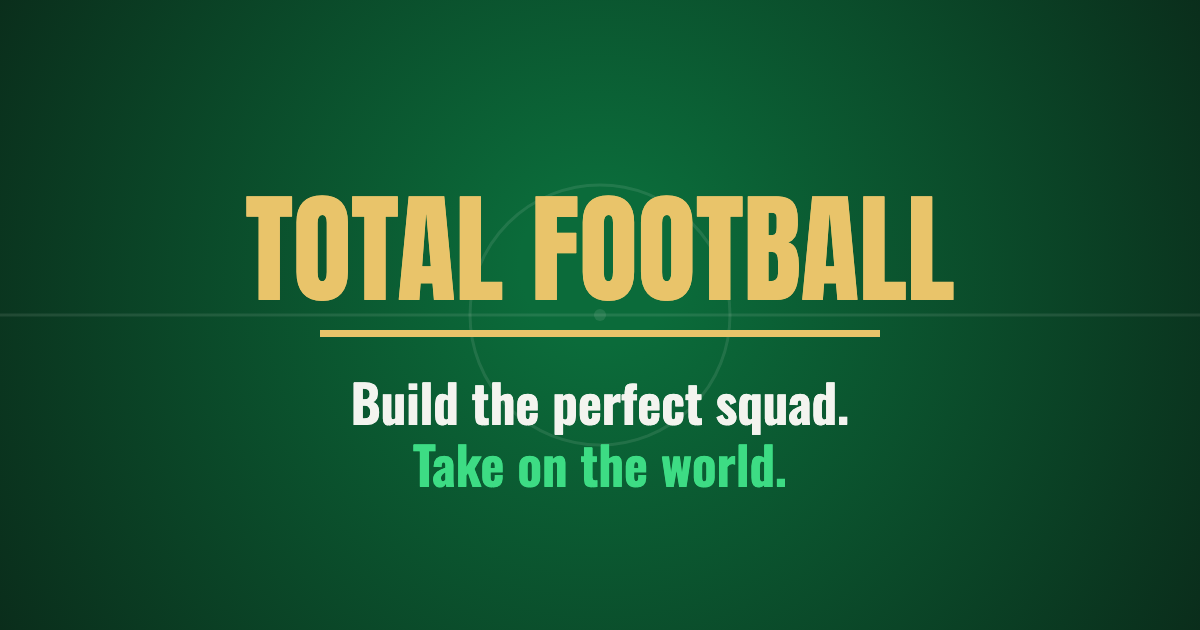
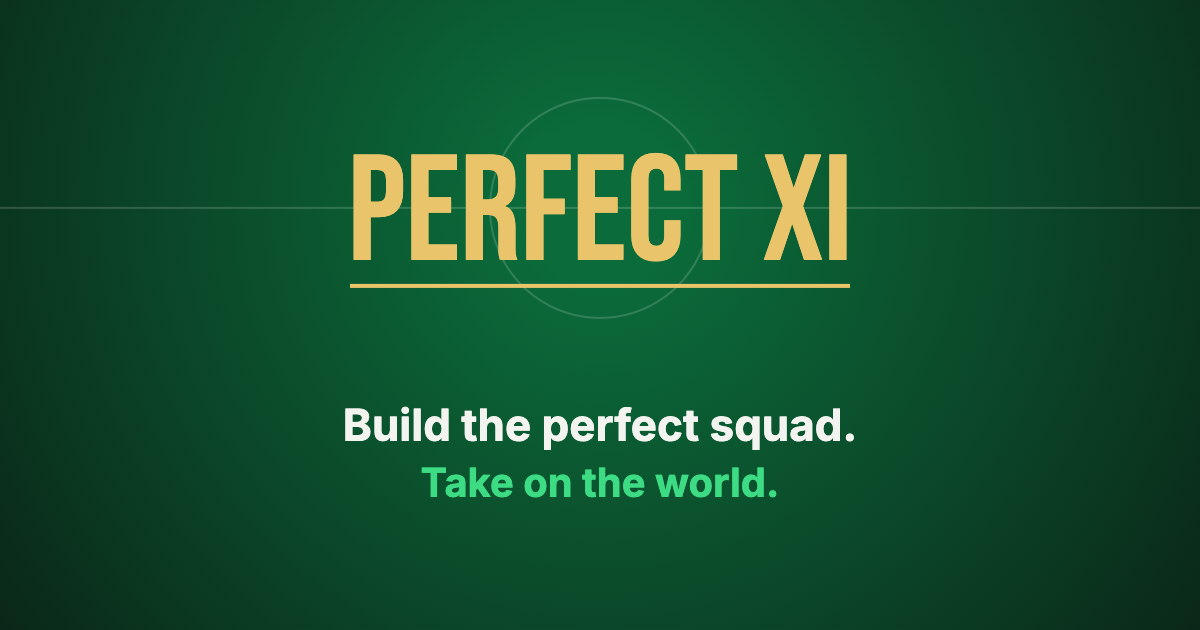
Rename to Perfect XI, add privacy policy, gate leaderboard name prompt
- Rebrand Total Football -> Perfect XI across UI, share card, og-image,
  manifest, README, CLAUDE.md (playing-style "Total Football" and the
  repo/folder name intentionally unchanged)
- Add public privacy.html (App Store prerequisite), no personal contact
- Strip trailing periods from the three era descriptions
- Only prompt for a leaderboard name when the result would actually place
  (top 25 in today/this week/all-time); show "You made the leaderboard!"
  for qualifiers and skip the ask otherwise; new i18n keys in all 6 locales

Changed region(s): [[0.0, 0.2413, 1.0, 0.5429], [0.2775, 0.6032, 0.7092, 0.8143]]

diff --git a/app/src/screens/Result.jsx b/app/src/screens/Result.jsx
@@ -5,7 +5,7 @@ import Flag from "../components/Flag.jsx";
 import SquadPitch from "../components/SquadPitch.jsx";
 import Share from "../share/Share.jsx";
 import { STYLES } from "../engine/style.js";
-import { submitScore, realPct, boardConfigured } from "../leaderboard/board.js";
+import { submitScore, realPct, boardConfigured, leaderboardStanding } from "../leaderboard/board.js";
 
 // Phase 6 result: the REAL simulated tournament — group + knockout scorelines, opponents, and the
 // final progression tier. Minimal layout on purpose; Elo/grade (Phase 7) and the polished bracket
@@ -98,11 +98,13 @@ function PostBlock({ config, result, seating, clientKey, gamePosted, setGamePost
   const [posting, setPosting] = useState(false);
   const [err, setErr] = useState(false);
   const [pct, setPct] = useState(null);
+  const [standing, setStanding] = useState(null); // null = still checking; then { made }
   const configured = boardConfigured();
 
   useEffect(() => {
     let live = true;
     realPct(config.era, config.mode, result.elo).then((p) => { if (live) setPct(p); });
+    leaderboardStanding(config.era, config.mode, result.elo).then((s) => { if (live) setStanding(s); });
     return () => { live = false; };
   }, []);
 
@@ -134,10 +136,17 @@ function PostBlock({ config, result, seating, clientKey, gamePosted, setGamePost
           </div>
           <button onClick={onLeaderboard} style={lbViewBtn}>{t("action.leaderboard")}</button>
         </div>
-      ) : (
+      ) : standing == null ? (
+        <div style={{ fontFamily: "Inter, sans-serif", fontSize: 12.5, color: C.chalk, opacity: 0.55, textAlign: "center" }}>
+          {t("leaderboard.checking")}
+        </div>
+      ) : standing.made ? (
         <>
-          <div style={{ fontFamily: "Inter, sans-serif", fontSize: 12, fontWeight: 700, color: C.chalk, opacity: 0.8, letterSpacing: ".06em", marginBottom: 8 }}>
-            {t("leaderboard.postPrompt")}
+          <div style={{ fontFamily: "'Bebas Neue', sans-serif", fontSize: 20, letterSpacing: ".03em", color: C.gold, textAlign: "center", marginBottom: 4 }}>
+            {t("leaderboard.made")}
+          </div>
+          <div style={{ fontFamily: "Inter, sans-serif", fontSize: 12, color: C.chalk, opacity: 0.8, letterSpacing: ".02em", marginBottom: 10, textAlign: "center" }}>
+            {t("leaderboard.madeSub")}
           </div>
           <div style={{ display: "flex", gap: 8 }}>
             <input
@@ -153,6 +162,13 @@ function PostBlock({ config, result, seating, clientKey, gamePosted, setGamePost
           {err && <div style={{ fontFamily: "Inter, sans-serif", fontSize: 12, color: "#e07a5f", marginTop: 8 }}>{t("leaderboard.error")}</div>}
           <button onClick={onLeaderboard} style={{ ...ghostBtn, fontSize: 12.5, padding: "8px 16px", marginTop: 10, width: "100%" }}>{t("leaderboard.viewLink")}</button>
         </>
+      ) : (
+        <div style={{ textAlign: "center" }}>
+          <div style={{ fontFamily: "Inter, sans-serif", fontSize: 12.5, color: C.chalk, opacity: 0.7, marginBottom: 10 }}>
+            {t("leaderboard.notTop")}
+          </div>
+          <button onClick={onLeaderboard} style={lbViewBtn}>{t("action.leaderboard")}</button>
+        </div>
       )}
     </div>
   );

diff --git a/app/public/privacy.html b/app/public/privacy.html
@@ -1,0 +1,31 @@
+<!DOCTYPE html>
+<html lang="en">
+<head>
+<meta charset="UTF-8">
+<meta name="viewport" content="width=device-width, initial-scale=1.0">
+<title>Perfect XI Privacy Policy</title>
+<style>body{font-family:system-ui,sans-serif;max-width:640px;margin:40px auto;padding:0 20px;color:#222;line-height:1.6}h1{font-size:22px}h2{font-size:17px;margin-top:28px}p{margin:8px 0}</style>
+</head>
+<body>
+<h1>Perfect XI Privacy Policy</h1>
+<p>Last updated: June 10, 2026</p>
+
+<h2>What we collect</h2>
+<p>When you post a result to the leaderboard, we store the display name you type (which can be initials or any name you choose), your game result (such as your Elo, tournament finish, and goal totals), and the squad you drafted. No account, email address, phone number, or device identifier is collected.</p>
+
+<h2>How we use it</h2>
+<p>Leaderboard entries are displayed publicly within the app and on this website so players can compare results. That is the only use.</p>
+
+<h2>Third-party services</h2>
+<p>The app uses Supabase to store leaderboard data. No analytics, advertising, or tracking services are used.</p>
+
+<h2>Data retention</h2>
+<p>Leaderboard entries are kept indefinitely. Since no personally identifiable information is collected, there is nothing to delete. If you would like a specific leaderboard entry removed, contact us.</p>
+
+<h2>Children</h2>
+<p>The app does not knowingly collect any personal information from children. The optional display name on the leaderboard is not linked to any identity.</p>
+
+<h2>Contact</h2>
+<p>Questions about this policy can be sent to the support contact listed on the App Store page or through this website.</p>
+</body>
+</html>

diff --git a/app/src/leaderboard/board.js b/app/src/leaderboard/board.js
@@ -55,6 +55,28 @@ export async function topScores(era, mode, timeframe) {
   return r.json();
 }
 
+// Would this Elo place on the board (top 25) in AT LEAST ONE timeframe (today / this week /
+// all-time)? Used to decide whether to even ask for a name — no point prompting someone who
+// wouldn't appear. A timeframe counts as "made" when it has fewer than 25 entries (open slot)
+// OR the Elo beats the current 25th-place score. Fails OPEN (returns true) on any network/parse
+// error so a flaky connection never silently denies a legit qualifier the chance to post.
+export async function leaderboardStanding(era, mode, elo) {
+  if (!boardConfigured()) return { made: false };
+  try {
+    const frames = ["today", "week", "all"];
+    const lists = await Promise.all(frames.map((tf) => topScores(era, mode, tf).catch(() => null)));
+    const madeIn = [];
+    for (let i = 0; i < frames.length; i++) {
+      const rows = lists[i];
+      if (!rows) return { made: true, frames: [], error: true }; // a fetch failed → fail open
+      if (rows.length < 25 || elo > rows[rows.length - 1].elo) madeIn.push(frames[i]);
+    }
+    return { made: madeIn.length > 0, frames: madeIn };
+  } catch (e) {
+    return { made: true, frames: [], error: true };
+  }
+}
+
 // Real percentile only — returns the "top X%" (lower is better) once the config has ≥18 scores,
 // otherwise null (no modeled fallback this phase). Never throws; the stat just hides on failure.
 export async function realPct(era, mode, elo) {

diff --git a/app/index.html b/app/index.html
@@ -3,16 +3,16 @@
 <head>
   <meta charset="UTF-8" />
   <meta name="viewport" content="width=device-width, initial-scale=1.0, viewport-fit=cover" />
-  <title>Total Football · Build the Perfect Squad</title>
+  <title>Perfect XI · Take on the World</title>
   <meta name="description" content="Draft a dream squad of real players from across the eras and take on the world in a simulated knockout tournament." />
   <meta name="theme-color" content="#0b6b3a" />
   <meta name="apple-mobile-web-app-capable" content="yes" />
   <meta name="apple-mobile-web-app-status-bar-style" content="black-translucent" />
-  <meta name="apple-mobile-web-app-title" content="Total Football" />
+  <meta name="apple-mobile-web-app-title" content="Perfect XI" />
   <link rel="apple-touch-icon" href="/apple-touch-icon.png" />
   <link rel="icon" type="image/png" href="/favicon.png" />
   <link rel="manifest" href="/manifest.json" />
-  <meta property="og:title" content="Total Football" />
+  <meta property="og:title" content="Perfect XI" />
   <meta property="og:description" content="Build the perfect squad. Take on the world." />
   <meta property="og:type" content="website" />
   <meta property="og:image" content="/og-image.png" />

diff --git a/app/src/app.jsx b/app/src/app.jsx
@@ -38,7 +38,7 @@ export default function App() {
       <div style={splash}>
         <style>{FONTS}</style>
         <div style={{ fontFamily: "'Bebas Neue', sans-serif", fontSize: 54, color: C.gold, letterSpacing: ".02em" }}>
-          TOTAL FOOTBALL
+          PERFECT XI
         </div>
         <div style={{ fontFamily: "Inter, sans-serif", marginTop: 14, fontSize: 13, letterSpacing: ".25em", color: C.chalk, opacity: 0.55 }}>
           {t("loading")}
@@ -51,7 +51,7 @@ export default function App() {
     return (
       <div style={splash}>
         <style>{FONTS}</style>
-        <div style={{ fontFamily: "'Bebas Neue', sans-serif", fontSize: 48, color: C.gold }}>TOTAL FOOTBALL</div>
+        <div style={{ fontFamily: "'Bebas Neue', sans-serif", fontSize: 48, color: C.gold }}>PERFECT XI</div>
         <div style={{ fontFamily: "Inter, monospace", fontSize: 12, color: "#f4a261", marginTop: 18, textAlign: "center", maxWidth: 420 }}>
           No cards.json — run the pipeline (`python -m pipeline.build_cards`) then `npm run build`.
         </div>

diff --git a/app/src/share/shareImage.js b/app/src/share/shareImage.js
@@ -64,7 +64,7 @@ export async function generateShareImage({ result, seating, formationName, confi
 
   // header
   g.textAlign = "center";
-  g.font = "40px 'Bebas Neue',sans-serif"; g.fillStyle = C.gold; g.fillText("TOTAL FOOTBALL", W / 2, 48);
+  g.font = "40px 'Bebas Neue',sans-serif"; g.fillStyle = C.gold; g.fillText("PERFECT XI", W / 2, 48);
   g.font = "15px Inter,sans-serif"; g.fillStyle = C.chalk; g.fillText(t("share.cardSubtitle"), W / 2, 70);
 
   // mode pill

diff --git a/CLAUDE.md b/CLAUDE.md
@@ -1,7 +1,7 @@
-# Total Football — Project Context
+# Perfect XI — Project Context
 
 ## What this is
-A World Cup squad-builder web game (working title "Total Football"), the soccer counterpart to
+A World Cup squad-builder web game (named "Perfect XI"; repo/folder still `total-football`), the soccer counterpart to
 the user's baseball game **162-0**. Spin to draw a country (+ a year in two of three eras), draft
 real players into an 11-slot formation, run the squad through a simulated knockout tournament vs
 real historical World Cup teams. Scored on goal differential, progression tier, and Elo (the
@@ -250,7 +250,7 @@ offered via the proven 162-0 share chain. New `app/src/components/SquadPitch.jsx
 `app/src/engine/index.js` now puts `formationName` on the returned result so the screen/card can lay out
 the pitch. **Share card** (`app/src/share/shareImage.js`, `generateShareImage({result,seating,
 formationName,config})→Promise<Blob>`): adapts 162-0's canvas technique (await `document.fonts.ready`,
-`S=2` retina, `drawPill`, `toBlob`). Layout top→bottom: TOTAL FOOTBALL header → **mode pill**
+`S=2` retina, `drawPill`, `toBlob`). Layout top→bottom: PERFECT XI header → **mode pill**
 (CLASSIC/EXPERT) → tier ("where you made it") → Champions-only **grade badge** → Elo (+delta) + goal
 differential → **mini pitch** of the XI (each chip = flag + last name + position token, **NO ratings**,
 per the user) → footer. Flags preloaded from `/flags/{code}.svg` into a Map (onerror→text-code fallback),
@@ -317,7 +317,7 @@ social-share sentence via a templated `share.text` key (`{tier}`/`{mode}`/`{elo}
 `draft.placedCount`, `round.*`, `share.text`; English country names come from `teams.json`, not duplicated
 into en.json). The five new locale files (`es/fr/pt/de/it.json`) each carry all en.json keys translated
 **plus** an 88-entry `team.<CODE>` block of localized country names (incl. defunct SUN/DDR/CSK/YUG/SCG/
-IDN/Zaire and the home nations); `app.title` stays "Total Football" (brand) everywhere. Translations are
+IDN/Zaire and the home nations); `app.title` is "Perfect XI" (brand) everywhere. Translations are
 model-authored (natural football terminology) — **a native-speaker review before public launch is the
 recommended follow-up** (flagged to the user). `build.js` already copies `i18n/`, so no build change.
 **Verified live** (Italian, 2026·Classic): switcher re-localizes UI chrome + era/mode cards + tagline +

diff --git a/README.md b/README.md
@@ -1,6 +1,6 @@
-# Total Football
+# Perfect XI
 
-A football squad-builder game (working title). Spin to draw a country (and, in two of three
+A football squad-builder game. Spin to draw a country (and, in two of three
 eras, a year), draft real players into an 11-slot formation, then run the squad through a
 simulated knockout tournament against real historical national teams. Scored on goal
 differential, how far you advanced, and an Elo rating (the leaderboard chase number).
